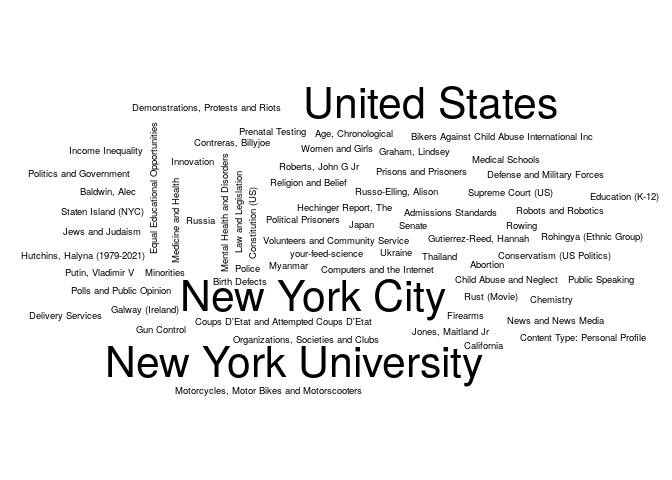
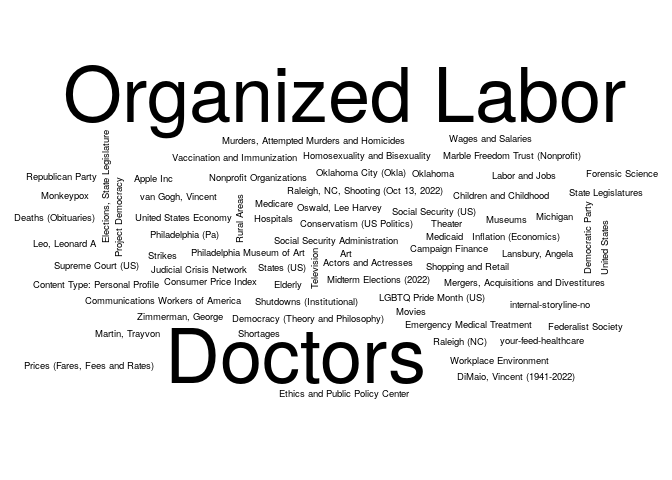
Updating the NYT report

Changed region(s): [[0.0, 0.125, 0.9688, 0.8438]]

diff --git a/03-nytimes/README.md b/03-nytimes/README.md
@@ -5,7 +5,7 @@ The following is an example of how to use the [NYTimes
 API](https://developer.nytimes.com/) to get a list of articles related
 to a particular term. Here we are searching articles that include the
 term `"health"`, and that were published up to seven days ago since
-2022-10-10.
+2022-10-17.
 
 ``` r
 # Preparing a function to use the GET method with the NYTimes API
@@ -83,25 +83,25 @@ colnames(tab) <- c("Keyword", "# Articles")
 knitr::kable(tab, row.names = FALSE)
 ```
 
-| Keyword                                      | \# Articles |
-|:---------------------------------------------|------------:|
-| Colleges and Universities                    |          30 |
-| New York City                                |          20 |
-| New York University                          |          20 |
-| Republican Party                             |          20 |
-| United States                                |          20 |
-| United States Politics and Government        |          20 |
-| Abortion                                     |          10 |
-| Admissions Standards                         |          10 |
-| Age, Chronological                           |          10 |
-| Baldwin, Alec                                |          10 |
-| Bikers Against Child Abuse International Inc |          10 |
-| Birth Defects                                |          10 |
-| California                                   |          10 |
-| Chemistry                                    |          10 |
-| Child Abuse and Neglect                      |          10 |
-| Computers and the Internet                   |          10 |
-| Conservatism (US Politics)                   |          10 |
-| Constitution (US)                            |          10 |
-| Content Type: Personal Profile               |          10 |
-| Contreras, Billyjoe                          |          10 |
+| Keyword                               | \# Articles |
+|:--------------------------------------|------------:|
+| Doctors                               |          20 |
+| Organized Labor                       |          20 |
+| United States Politics and Government |          20 |
+| Actors and Actresses                  |          10 |
+| Apple Inc                             |          10 |
+| Art                                   |          10 |
+| Campaign Finance                      |          10 |
+| Children and Childhood                |          10 |
+| Communications Workers of America     |          10 |
+| Conservatism (US Politics)            |          10 |
+| Consumer Price Index                  |          10 |
+| Content Type: Personal Profile        |          10 |
+| Deaths (Obituaries)                   |          10 |
+| Democracy (Theory and Philosophy)     |          10 |
+| Democratic Party                      |          10 |
+| DiMaio, Vincent (1941-2022)           |          10 |
+| Elderly                               |          10 |
+| Elections, State Legislature          |          10 |
+| Emergency Medical Treatment           |          10 |
+| Ethics and Public Policy Center       |          10 |
